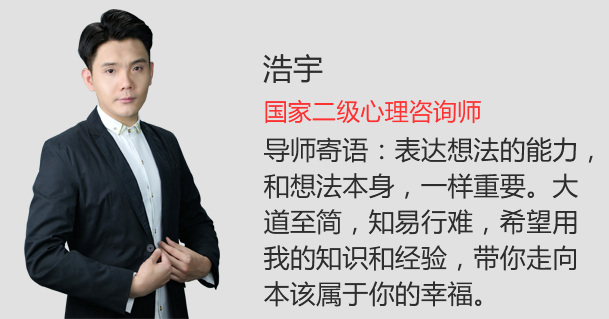
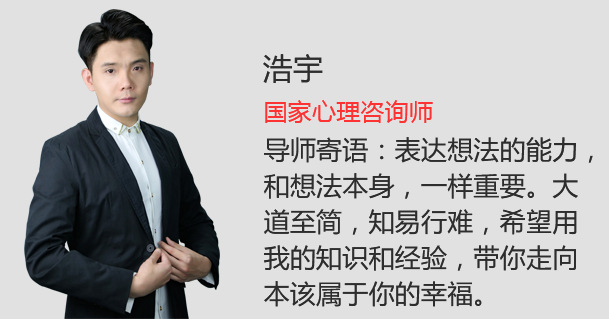
移动端首页更新图片

Changed region(s): [[0.4368, 0.3103, 0.8112, 0.395]]

diff --git a/wechat/team.html b/wechat/team.html
@@ -39,7 +39,7 @@
             <div class="main">
                 <div class="para">
                     <p class="para-font-size">
-                        公司拥有国内一线的团队和专家，不仅具有专业学术理论知识，而且还有资深阅历和丰富的情感服务经验，针对每位客户情感问题进行分析判断，不仅为客户答疑解惑，而且还提供明确有效的解决方案。目前已经成功帮助万名用户挽回真爱，获得幸福。
+                        公司拥有国内一线的团队和专家，不仅具有专业学术理论知识，而且还有资深阅历和丰富的情感服务经验，针对每位客户情感问题进行分析判断，不仅为客户答疑解惑，而且还提供明确有效的解决方案。目前已经成功帮助数万名用户挽回真爱，获得幸福。
                     </p>
                 </div>
             </div>
@@ -73,7 +73,7 @@
                     <div class="txt-group">
                         <p class="title">专业</p>
                         <p class="para">
-                            每一位导师、助教，均为资深全职人员高效指导学员用户。用户出现问题，将在第一时间得到完善解决
+                            每一位导师、助教，均为资深全职人员，高效指导学员用户。用户出现问题，将在第一时间得到完善解决
                         </p>
                         <p class="des red">
                             内部理论系统研发
@@ -132,7 +132,7 @@
                 <!--</div>-->
                 <div class="paras-group">
                     <p class="indent para para-font-size">
-                        橘子情感的导师团队，均为资深全职导师，其中包括平均从业4年以上的国家心理咨询师、专业心理侧写师、国家级婚恋咨询师、情感挽回专家、情感维稳师等专业导师，为您的爱情保驾护航。
+                        橘子情感的导师团队，均为资深全职导师，其中包括平均从业多年以上的国家心理咨询师、专业心理侧写师、国家级婚恋咨询师、情感挽回专家、情感维稳师等专业导师，为您的爱情保驾护航。
                     </p>
                     <p class="indent para para-font-size">
                         每一段感情，都值得被珍惜；而每一位用户，都会在这里得到最专业、最全面的指导服务。橘子情感的所有情感导师，均秉承着“专业、责任、奉献”的核心价值观，将挽回爱情、捍卫幸福是为己任。因为专业，所以卓越，橘子情感的成功率和口碑，也一直引领业界。而主导师团队开设的“全国情感导师培植计划”，多年来也为整个行业输送了大批优秀的从业人才。
